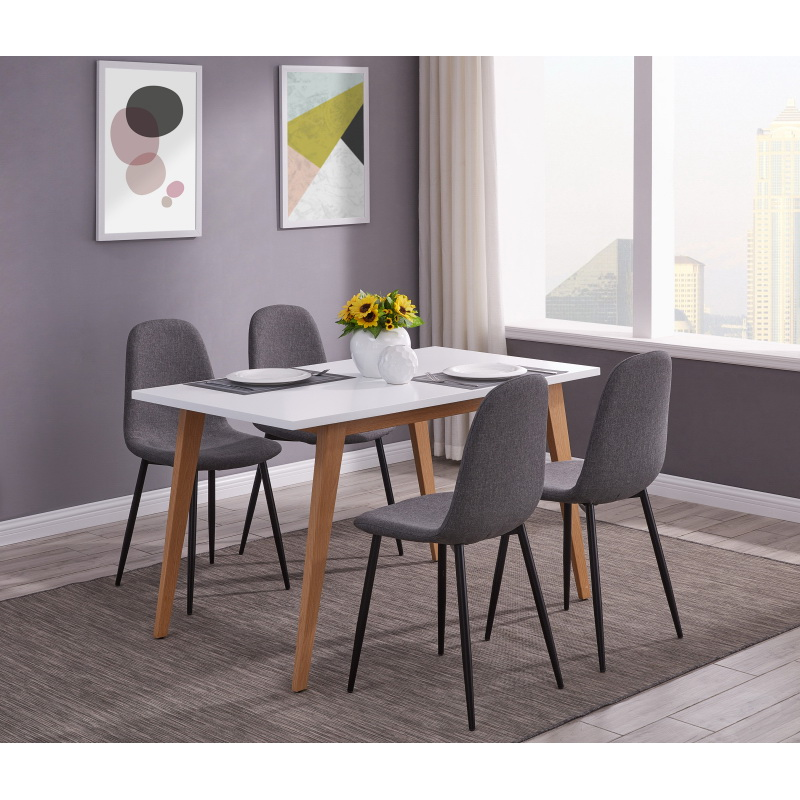
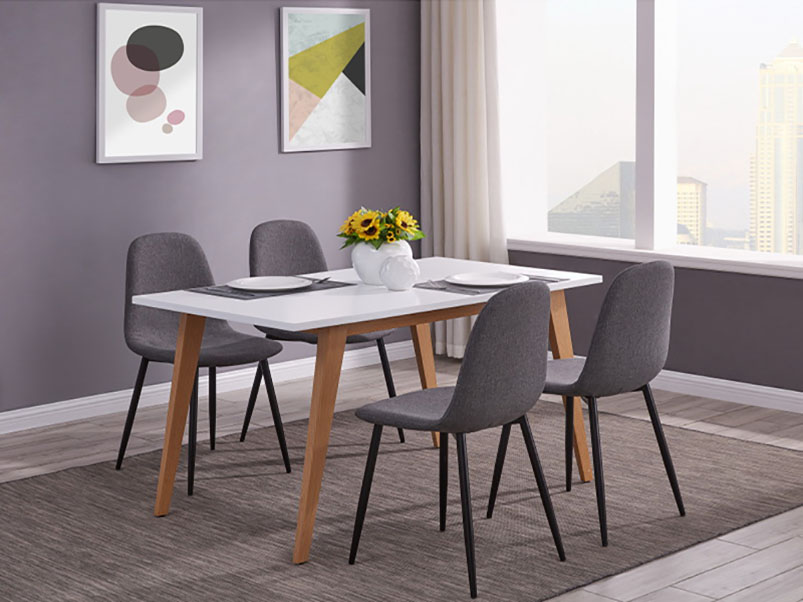
resize images

diff --git a/pages/products/sofa.html b/pages/products/sofa.html
@@ -51,6 +51,24 @@
                         <a href="#" class="btn btn-primary">Visit</a>
                     </div>
                 </div>
+                <div class="card products_item">
+                    <div class="product_img">
+                        <img src="../../assets/img/sofa/5.jpg" class="card-img-top" alt="">
+                    </div>
+                    <div class="card-body product_info">
+                        <h5 class="card-title">Model Name:</h5>
+                        <a href="#" class="btn btn-primary">Visit</a>
+                    </div>
+                </div>
+                <div class="card products_item">
+                    <div class="product_img">
+                        <img src="../../assets/img/sofa/6.jpg" class="card-img-top" alt="">
+                    </div>
+                    <div class="card-body product_info">
+                        <h5 class="card-title">Model Name:</h5>
+                        <a href="#" class="btn btn-primary">Visit</a>
+                    </div>
+                </div>
             </div>
     </div>
    </div>
